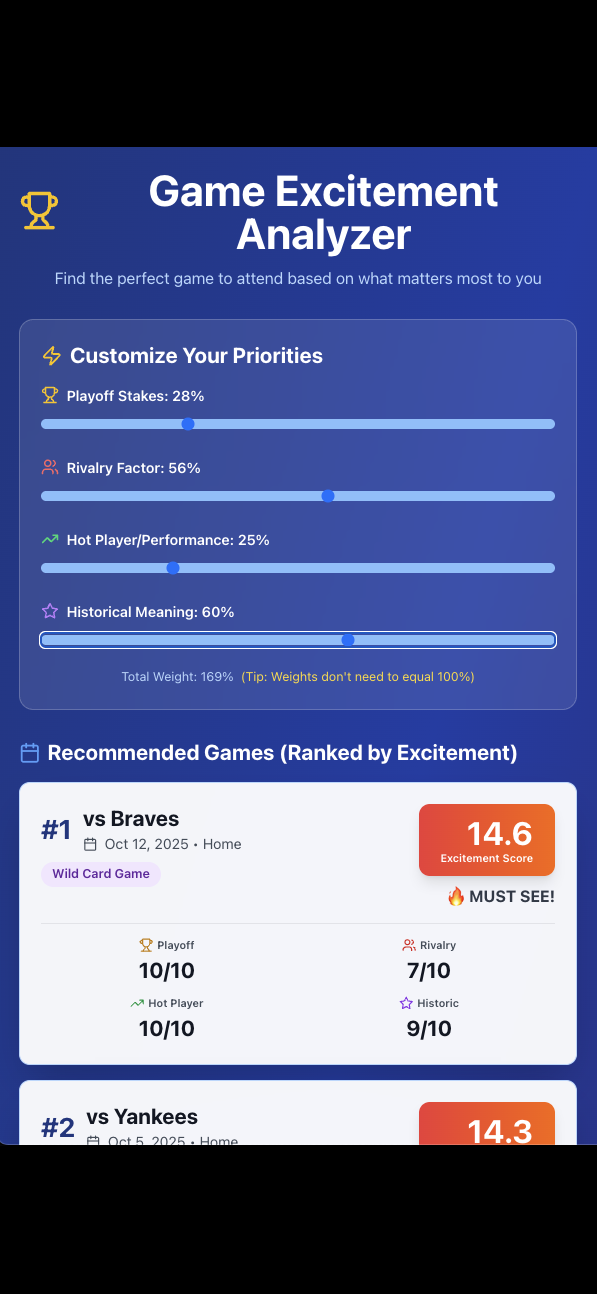
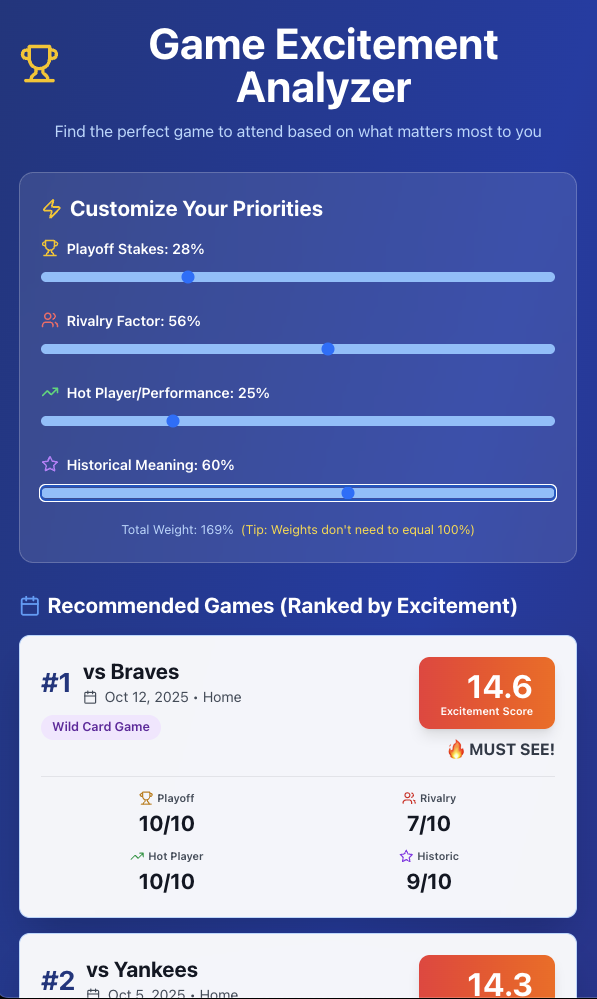
CourtVisual: progression as a 3-device fan (PRD to shipped), sized to image ratio

diff --git a/app/work/courtvisual/page.tsx b/app/work/courtvisual/page.tsx
@@ -1,5 +1,6 @@
 import { CaseStudyLayout } from "@/components/CaseStudyLayout";
 import { TiltedPhonePair } from "@/components/TiltedPhonePair";
+import { PhoneFan } from "@/components/PhoneFan";
 import Link from "next/link";
 import type { Metadata } from "next";
 
@@ -71,26 +72,27 @@ export default function Page() {
       projectShowcases={[
         {
           eyebrow: "The progression · From PRD to shipped",
-          title: "From PRD prototype to shipped app",
+          title: "Three builds, left to right",
           description: [
-            "The left phone is v1, straight from the PRD: a Game Excitement Analyzer with raw priority sliders and an uncapped score that ran past 14, on weights that didn't even need to add up. It proved the idea and nothing more.",
-            "The right phone is where it landed. The score is capped to a legible 0 to 10, the raw sliders gave way to a ranked slate, and the why-breakdown moved onto each card so the number always shows its work. Same idea, finally a product.",
+            "Left to right is the whole arc. v1 came straight from the PRD: a Game Excitement Analyzer with raw priority sliders and an uncapped score that ran past 14, on weights that didn't even need to add up. It proved the idea and nothing more.",
+            "The middle build capped the score to a legible 0 to 10 and turned it into a ranked slate. The one in front is where it landed: each card carries the four factors a fan actually feels, Stakes, Rivalry, the race, and Matchup, with a plain-English read of why it scored that way.",
           ],
           customContent: (
-            <TiltedPhonePair
-              leftTilt={-6}
-              rightTilt={6}
-              phoneMaxWidth="max-w-[260px] sm:max-w-[300px]"
-              left={{
-                src: `${ASSET_BASE}/09-progression-prd.png`,
-                alt: "CourtVisual v1 from the PRD: a Game Excitement Analyzer with four priority sliders and an uncapped total weight over 100 percent.",
-                caption: "v1 · straight from the PRD",
-              }}
-              right={{
-                src: `${ASSET_BASE}/10-progression-shipped.png`,
-                alt: "The shipped CourtVisual ranking: games scored 0 to 10 in a ranked slate, each card showing the why-this-game-scores breakdown, a ticket path, and reactions.",
-                caption: "shipped · capped, ranked, on a card",
-              }}
+            <PhoneFan
+              phones={[
+                {
+                  src: `${ASSET_BASE}/09-progression-prd.png`,
+                  alt: "v1, from the PRD: a Game Excitement Analyzer with four priority sliders and an uncapped total weight over 100 percent.",
+                },
+                {
+                  src: `${ASSET_BASE}/10-progression-ranking.png`,
+                  alt: "The middle build: a ranked slate with each game scored and a why-this-game-scores breakdown on the card.",
+                },
+                {
+                  src: `${ASSET_BASE}/11-progression-card.png`,
+                  alt: "The shipped card: a Subway Series game scored with the current factors, Stakes, Rivalry, The race, and Matchup, plus a plain-English verdict and a ticket path.",
+                },
+              ]}
             />
           ),
         },

diff --git a/components/PhoneFan.tsx b/components/PhoneFan.tsx
@@ -1,0 +1,51 @@
+// Destination: components/PhoneFan.tsx
+// A three-device "evolution fan": oldest on the left, current on the right and
+// on top, gently fanned and overlapping. Each frame is sized to the image's own
+// aspect ratio so the screenshot fills it edge to edge (no letterboxing).
+
+type FanPhone = {
+  src: string;
+  alt: string;
+};
+
+// Per-position layout, left -> right (oldest -> current). The last sits largest,
+// upright, and on top. All literal class strings so Tailwind JIT keeps them.
+const LAYOUT = [
+  { w: "w-[30%] sm:w-[29%]", ml: "", z: "z-10", rot: "rotate-[-8deg]" },
+  { w: "w-[31%] sm:w-[30%]", ml: "-ml-[6%]", z: "z-20", rot: "rotate-[-4deg]" },
+  { w: "w-[35%] sm:w-[34%]", ml: "-ml-[6%]", z: "z-30", rot: "rotate-[0deg]" },
+];
+
+export function PhoneFan({ phones }: { phones: FanPhone[] }) {
+  return (
+    <div className="relative mx-auto flex w-full max-w-4xl items-end justify-center px-2 py-8 md:py-10">
+      {phones.slice(0, 3).map((p, i) => {
+        const L = LAYOUT[i] ?? LAYOUT[0];
+        return (
+          <div
+            key={p.src}
+            className={[
+              L.w,
+              L.ml,
+              L.z,
+              L.rot,
+              "origin-bottom transition-transform duration-500 ease-out will-change-transform",
+              "hover:-translate-y-2",
+            ].join(" ")}
+          >
+            <div className="relative aspect-[597/999] w-full rounded-[1.5rem] bg-zinc-950 p-[5px] shadow-[0_24px_56px_-16px_rgba(0,0,0,0.6),0_8px_20px_-10px_rgba(0,0,0,0.5)]">
+              <div className="relative h-full w-full overflow-hidden rounded-[1.25rem] bg-black">
+                {/* eslint-disable-next-line @next/next/no-img-element */}
+                <img
+                  src={p.src}
+                  alt={p.alt}
+                  className="h-full w-full object-cover object-top"
+                />
+              </div>
+            </div>
+          </div>
+        );
+      })}
+    </div>
+  );
+}
